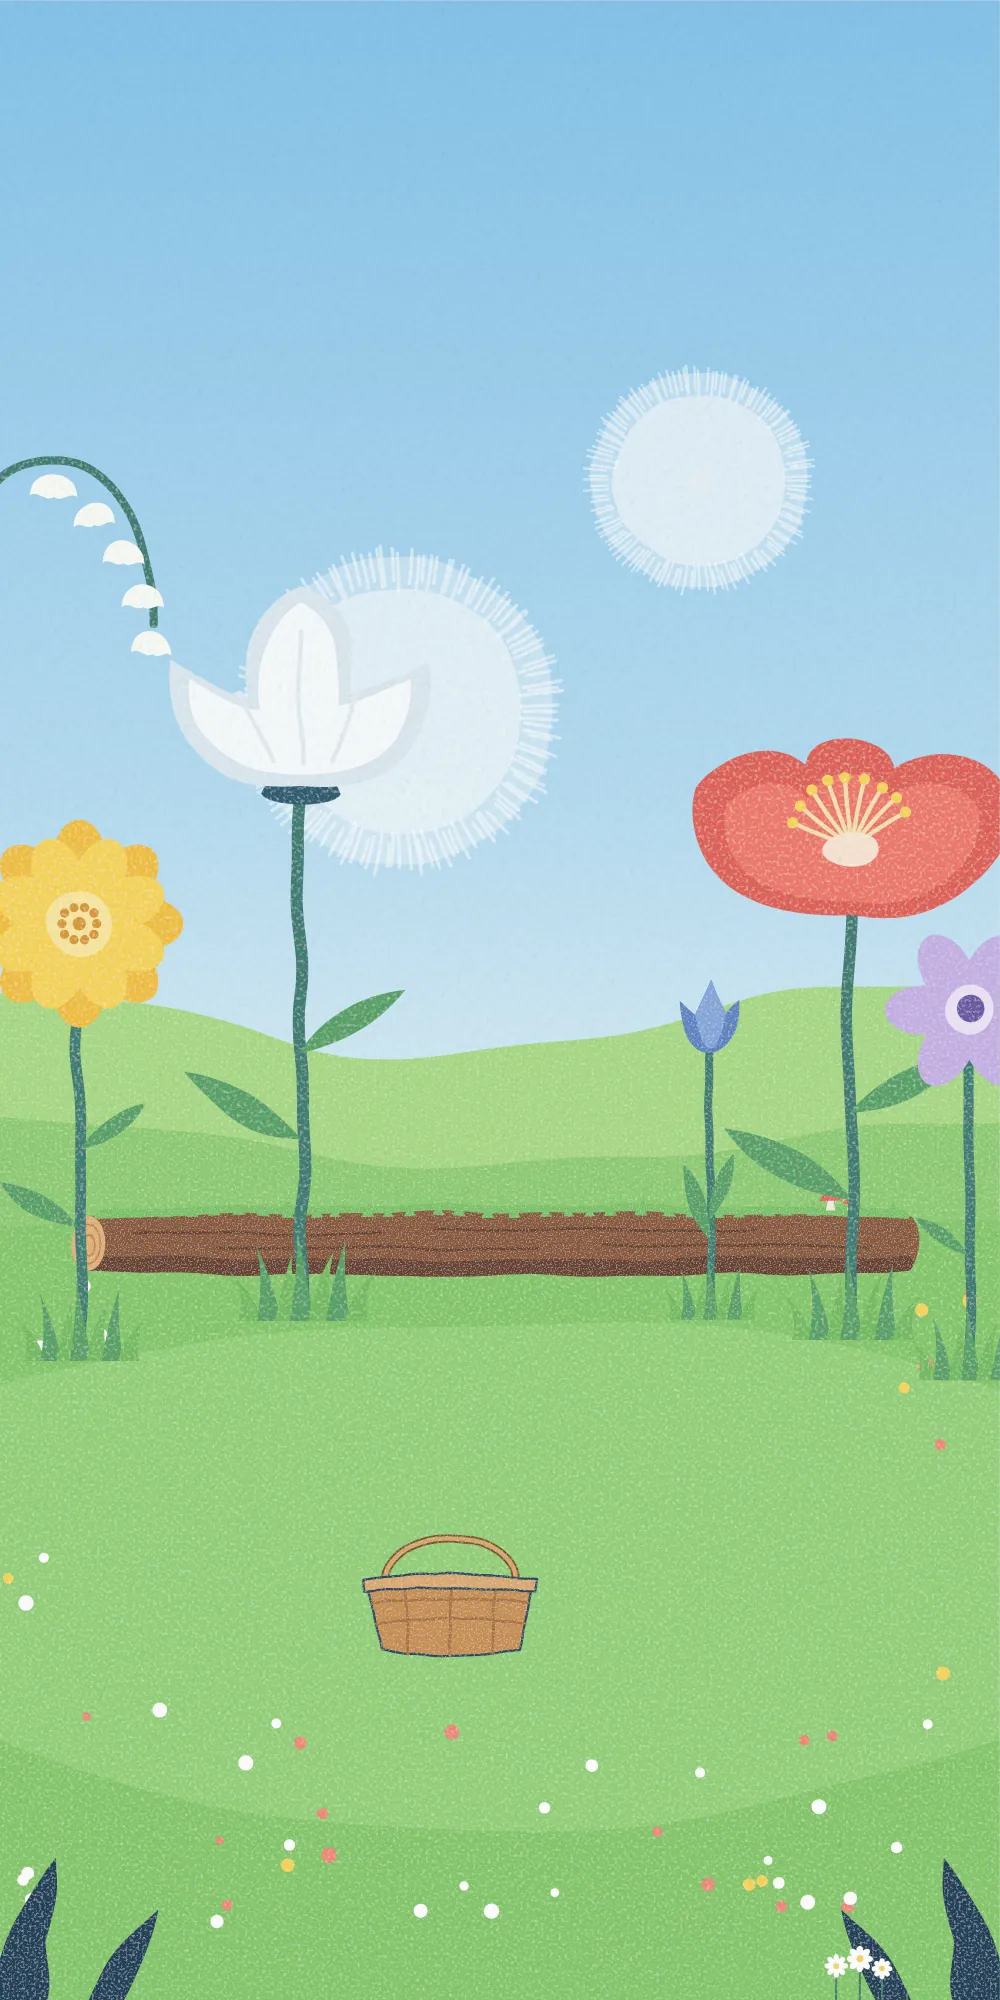
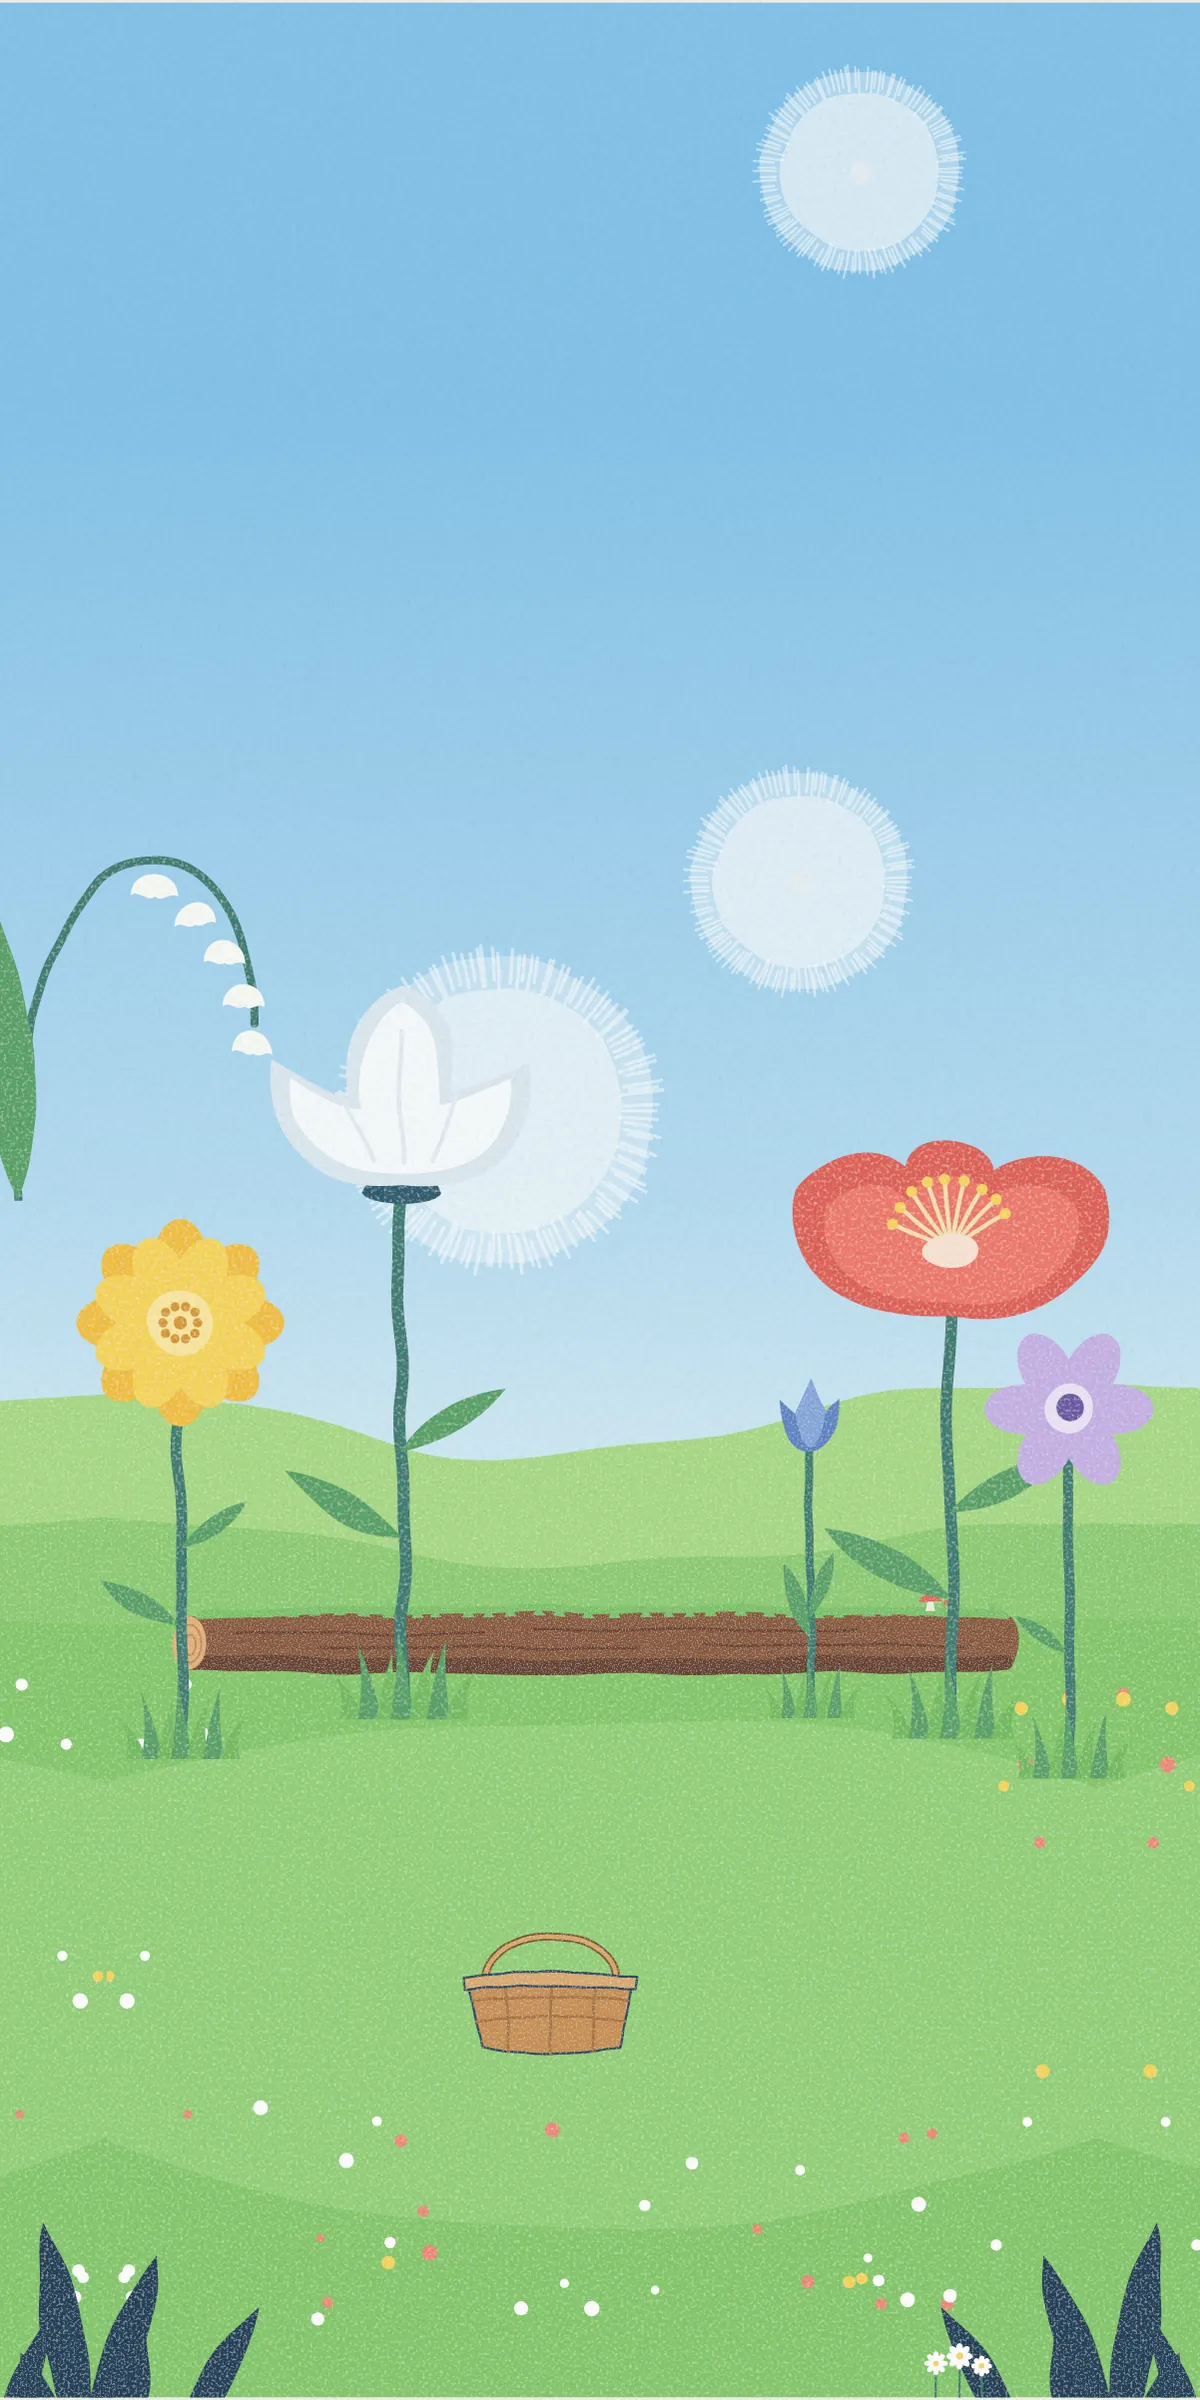
Extend the garden pictures to fill the whole window
Each garden picture keeps the original picture in the middle and continues the garden past its
sides and into the sky, so the garden fills the window without being enlarged. The header is
hidden, and the picture is chosen by the window's shape from three shapes instead of four.

diff --git a/base.css b/base.css
@@ -60,39 +60,50 @@ body {
 
 /* Garden stage */
 
+/* The garden fills the whole window, so the page never scrolls and its edges are the garden's. */
 .gardenStage {
-    display: grid;
-    place-items: center;
-    min-height: calc(100svh - var(--headerHeight));
-    padding: 0 var(--stageGap) var(--stageGap);
+    position: fixed;
+    inset: 0;
+    overflow: hidden;
+    container-type: size;
 }
 
 /*
-The scene keeps a fixed aspect ratio and grows to the largest size that fits the viewport.
-A fixed ratio means a percentage position always lands on the same patch of the picture.
+The scene is the frame of the original garden picture. It keeps a fixed aspect ratio and grows
+to the largest size that fits the window, so a percentage position always lands on the same
+patch of the picture. If the window is wider or taller than the extended picture, the scene
+grows a little more so the window stays covered.
 */
 .gardenScene {
     --sceneRatio: 1.6;
     --objectScale: 1;
-    position: relative;
-    width: min(100%, calc((100svh - var(--headerHeight) - var(--stageGap)) * var(--sceneRatio)));
+    --extendX: 0.25;
+    --extendY: 0.4547;
+    position: absolute;
+    bottom: 0;
+    left: 50%;
+    width: max(min(100cqw, 100cqh * var(--sceneRatio)), 100cqw / (1 + 2 * var(--extendX)),
+            100cqh * var(--sceneRatio) / (1 + var(--extendY)));
     aspect-ratio: var(--sceneRatio);
-    overflow: hidden;
-    border-radius: 1.6rem 2.2rem 1.8rem 2rem;
     background-color: var(--skyBlue);
-    box-shadow: 0 0.2rem 0 rgb(38 56 50 / 12%);
+    translate: -50% 0;
 }
 
 /* Garden picture */
 
-/* The garden is one still picture. Each screen shape loads a picture made for that shape. */
+/*
+The garden is one still picture. It keeps the original picture in the middle and continues the
+garden past its sides and into the sky, so a different window shape shows more of the garden
+instead of a bigger one. --extendX and --extendY say how far it continues, as a share of the
+original picture. Each window shape loads a picture made for that shape.
+*/
 .gardenPicture {
     position: absolute;
-    inset: 0;
+    bottom: 0;
+    left: calc(var(--extendX) * -100%);
     display: block;
-    width: 100%;
-    height: 100%;
-    object-fit: cover;
+    width: calc((1 + 2 * var(--extendX)) * 100%);
+    height: calc((1 + var(--extendY)) * 100%);
     user-select: none;
 }
 
@@ -297,41 +308,44 @@ so one small ring now spreads flat across the ground only where an object is put
     }
 }
 
-/* Portrait screens */
+/* Window shapes */
 
 /*
-Tall screens use a taller garden instead of a squashed wide one, so objects keep a
-comfortable size and have room to move up and down between the pitch zones.
+Square and portrait windows use a taller garden instead of a squashed wide one, so objects keep
+a comfortable size and have room to move up and down between the pitch zones. Each picture
+continues far enough to cover every window shape that uses it.
 */
-@media (orientation: portrait) {
+@media (max-aspect-ratio: 11/10) {
     .gardenScene {
         --sceneRatio: 0.75;
+        --extendX: 0.2333;
+        --extendY: 0.25;
     }
 }
 
+/* The narrowest windows are usually phones, so objects grow slightly to be easy to touch. */
+@media (max-aspect-ratio: 3/5) {
+    .gardenScene {
+        --sceneRatio: 0.5;
+        --objectScale: 1.25;
+        --extendX: 0.1;
+        --extendY: 0.2;
+    }
+}
+
+/* Small screens */
+
+/* The page that lists the gardens uses a smaller header and margins on small screens. */
 @media (orientation: portrait) and (max-width: 600px) {
     :root {
         --headerHeight: 2.5rem;
         --stageGap: 0.75rem;
     }
-
-    /* Phones use a taller garden and slightly larger objects so each one is easy to touch. */
-    .gardenScene {
-        --sceneRatio: 0.5;
-        --objectScale: 1.25;
-    }
 }
 
-/* Short landscape screens */
-
-/* A wider garden on short screens such as landscape phones uses more of the available width. */
 @media (orientation: landscape) and (max-height: 500px) {
     :root {
         --headerHeight: 2.25rem;
         --stageGap: 0.5rem;
-    }
-
-    .gardenScene {
-        --sceneRatio: 1.9;
     }
 }

diff --git a/versions/painted-orchard/index.html b/versions/painted-orchard/index.html
@@ -18,8 +18,9 @@
     is its own picture, so a child can tap the objects to play them and drag them anywhere.
     -->
 
-    <header class="pageHeader">
-        <h1 class="projectTitle">Garden of Sounds</h1>
+    <!-- The title stays for screen readers, while the garden itself fills the window. -->
+    <header class="visuallyHidden">
+        <h1>Garden of Sounds</h1>
     </header>
 
     <main class="gardenStage">
@@ -46,15 +47,10 @@
                 faster.
             </p>
 
-            <!-- The garden is one still picture, made for each screen shape. -->
+            <!-- The garden is one still picture, made for each window shape. -->
             <picture>
-                <source
-                    media="(orientation: portrait) and (max-width: 600px)"
-                    srcset="assets/backgrounds/phone.webp">
-                <source media="(orientation: portrait)" srcset="assets/backgrounds/tall.webp">
-                <source
-                    media="(orientation: landscape) and (max-height: 500px)"
-                    srcset="assets/backgrounds/short.webp">
+                <source media="(max-aspect-ratio: 3/5)" srcset="assets/backgrounds/phone.webp">
+                <source media="(max-aspect-ratio: 11/10)" srcset="assets/backgrounds/tall.webp">
                 <img class="gardenPicture" src="assets/backgrounds/wide.webp" alt="">
             </picture>
 

diff --git a/versions/lakeside-picnic/index.html b/versions/lakeside-picnic/index.html
@@ -18,8 +18,9 @@
     can tap the objects to play them and drag them anywhere in the garden.
     -->
 
-    <header class="pageHeader">
-        <h1 class="projectTitle">Garden of Sounds</h1>
+    <!-- The title stays for screen readers, while the garden itself fills the window. -->
+    <header class="visuallyHidden">
+        <h1>Garden of Sounds</h1>
     </header>
 
     <main class="gardenStage">
@@ -45,15 +46,10 @@
                 faster.
             </p>
 
-            <!-- The garden is one still picture, made for each screen shape. -->
+            <!-- The garden is one still picture, made for each window shape. -->
             <picture>
-                <source
-                    media="(orientation: portrait) and (max-width: 600px)"
-                    srcset="assets/backgrounds/phone.webp">
-                <source media="(orientation: portrait)" srcset="assets/backgrounds/tall.webp">
-                <source
-                    media="(orientation: landscape) and (max-height: 500px)"
-                    srcset="assets/backgrounds/short.webp">
+                <source media="(max-aspect-ratio: 3/5)" srcset="assets/backgrounds/phone.webp">
+                <source media="(max-aspect-ratio: 11/10)" srcset="assets/backgrounds/tall.webp">
                 <img class="gardenPicture" src="assets/backgrounds/wide.webp" alt="">
             </picture>
 

diff --git a/versions/flower-meadow/index.html b/versions/flower-meadow/index.html
@@ -18,8 +18,9 @@
     the objects to play them and drag them anywhere in the garden.
     -->
 
-    <header class="pageHeader">
-        <h1 class="projectTitle">Garden of Sounds</h1>
+    <!-- The title stays for screen readers, while the garden itself fills the window. -->
+    <header class="visuallyHidden">
+        <h1>Garden of Sounds</h1>
     </header>
 
     <main class="gardenStage">
@@ -46,15 +47,10 @@
                 faster.
             </p>
 
-            <!-- The garden is one still picture, made for each screen shape. -->
+            <!-- The garden is one still picture, made for each window shape. -->
             <picture>
-                <source
-                    media="(orientation: portrait) and (max-width: 600px)"
-                    srcset="assets/backgrounds/phone.webp">
-                <source media="(orientation: portrait)" srcset="assets/backgrounds/tall.webp">
-                <source
-                    media="(orientation: landscape) and (max-height: 500px)"
-                    srcset="assets/backgrounds/short.webp">
+                <source media="(max-aspect-ratio: 3/5)" srcset="assets/backgrounds/phone.webp">
+                <source media="(max-aspect-ratio: 11/10)" srcset="assets/backgrounds/tall.webp">
                 <img class="gardenPicture" src="assets/backgrounds/wide.webp" alt="">
             </picture>
 

diff --git a/versions/flower-meadow/style.css b/versions/flower-meadow/style.css
@@ -84,29 +84,9 @@ the three pitch zones follow what a child can see in the picture.
     --w: 5.2%;
 }
 
-/* Short landscape screens */
+/* Square and portrait windows */
 
-@media (orientation: landscape) and (max-height: 500px) {
-    /*
-    On the wider picture the log sits higher, so the objects resting on it start higher to stay
-    on them.
-    */
-    #flower-pot {
-        --y: 65.9%;
-    }
-
-    #garden-bird {
-        --y: 65.9%;
-    }
-
-    #garden-snail {
-        --y: 65.9%;
-    }
-}
-
-/* Portrait screens */
-
-@media (orientation: portrait) {
+@media (max-aspect-ratio: 11/10) {
     .gardenScene {
         --skyLine: 47%;
         --groundLine: 72%;
@@ -174,7 +154,7 @@ the three pitch zones follow what a child can see in the picture.
     }
 }
 
-@media (orientation: portrait) and (max-width: 600px) {
+@media (max-aspect-ratio: 3/5) {
     /*
     On the narrower phone picture the log is thinner, so the objects resting on it start lower
     to stay on them.

diff --git a/versions/painted-orchard/style.css b/versions/painted-orchard/style.css
@@ -86,25 +86,9 @@ seedling rows, so the three pitch zones follow what a child can see in the pictu
     --w: 5.2%;
 }
 
-/* Short landscape screens */
+/* Square and portrait windows */
 
-@media (orientation: landscape) and (max-height: 500px) {
-    /*
-    On the wider picture the tree and stone reach higher, so the bird and snail start higher to
-    stay on them.
-    */
-    #garden-bird {
-        --y: 24.1%;
-    }
-
-    #garden-snail {
-        --y: 86.3%;
-    }
-}
-
-/* Portrait screens */
-
-@media (orientation: portrait) {
+@media (max-aspect-ratio: 11/10) {
     .gardenScene {
         --skyLine: 37%;
         --groundLine: 74%;
@@ -168,7 +152,7 @@ seedling rows, so the three pitch zones follow what a child can see in the pictu
     }
 }
 
-@media (orientation: portrait) and (max-width: 600px) {
+@media (max-aspect-ratio: 3/5) {
     /*
     On the narrower phone picture the tree and stone are shorter, so the bird and snail start
     lower to stay on them.

diff --git a/versions/lakeside-picnic/style.css b/versions/lakeside-picnic/style.css
@@ -86,25 +86,9 @@ the three pitch zones follow what a child can see in the picture.
     --w: 5.2%;
 }
 
-/* Short landscape screens */
+/* Square and portrait windows */
 
-@media (orientation: landscape) and (max-height: 500px) {
-    /*
-    On the wider picture the tree and boulder reach higher, so the bird and snail start higher
-    to stay on them.
-    */
-    #garden-bird {
-        --y: 39.9%;
-    }
-
-    #garden-snail {
-        --y: 61.5%;
-    }
-}
-
-/* Portrait screens */
-
-@media (orientation: portrait) {
+@media (max-aspect-ratio: 11/10) {
     .gardenScene {
         --skyLine: 33%;
         --groundLine: 70%;
@@ -167,7 +151,7 @@ the three pitch zones follow what a child can see in the picture.
     }
 }
 
-@media (orientation: portrait) and (max-width: 600px) {
+@media (max-aspect-ratio: 3/5) {
     /*
     On the narrower phone picture the tree and boulder are shorter, so the bird and snail start
     lower to stay on them.

diff --git a/README.md b/README.md
@@ -4,7 +4,8 @@ Garden of Sounds is a browser-based musical toy for toddlers. Children tap and d
 tools, animals and fruits around an illustrated storybook garden to build layered music.
 
 This repository holds the final instrument for Assignment 3. There are three versions of the
-garden. Each one is a still picture with ten separate objects on it that can be moved and played.
+garden. Each one is a still picture with ten separate objects on it that can be moved and played,
+and it fills the whole browser window.
 
 ## Structure
 
@@ -17,8 +18,9 @@ garden. Each one is a still picture with ten separate objects on it that can be 
   - `index.html` lists the objects and sets the garden's musical key and tempo.
   - `style.css` sets the glow colour, the pitch zone lines and where each object starts on every
     screen shape.
-  - `assets/backgrounds/` holds the garden picture in four shapes: wide, short (landscape
-    phones), tall (portrait tablets) and phone.
+  - `assets/backgrounds/` holds the garden picture in three shapes: wide, tall (square and
+    portrait windows) and phone. Each one keeps the original picture in the middle and continues
+    the garden past its sides and into the sky, so it can fill windows of different shapes.
   - `assets/objects/` holds one picture for each object.
 
 ## Garden versions
